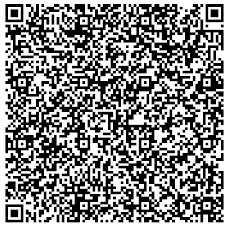
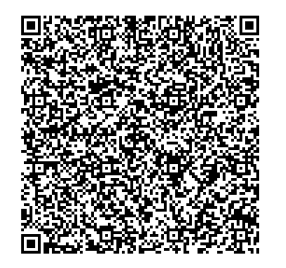
Add new testing QR codes

diff --git a/RS/1.3.0/README.md b/RS/1.3.0/README.md
@@ -6,19 +6,37 @@ From: 18.11.2021
 
 ### 1 - Vaccination certificate: Partial immunisation
 
-Basic DCC with one vaccination entry, partial immunisation (1/2). Signed with a DSC uploaded in the ACC environment.
+Basic DCC with one vaccination entry, partial immunisation (1/3). Signed with a DSC uploaded in the ACC environment.
 
 All tests should be successful.
 
 ![VAC1](VACC1.png)
 
-### 2 - Test certificate (PCR Test)
+
+### 2 - Vaccination certificate: Partial immunisation
+
+Basic DCC with one vaccination entry, partial immunisation (2/3). Signed with a DSC uploaded in the ACC environment.
+
+All tests should be successful.
+
+![VAC2](VACC2.png)
+
+
+### 3 - Vaccination certificate: Complete immunisation
+
+Basic DCC with all vaccination entry, complete immunisation (3/3). Signed with a DSC uploaded in the ACC environment.
+
+All tests should be successful.
+
+![VAC3](VACC3.png)
+
+### 4 - Test certificate (PCR Test)
 
 Basic DCC with one test entry. Signed with a DSC uploaded in the ACC environment.
 
 ![TEST1](TEST1.png)
 
-### 4 - Recovery certificate
+### 5 - Recovery certificate
 
 Basic DCC with one recovery entry. Signed with a DSC uploaded in the ACC environment.
 
